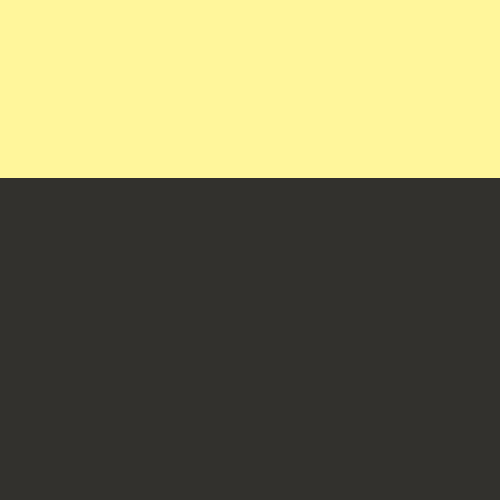
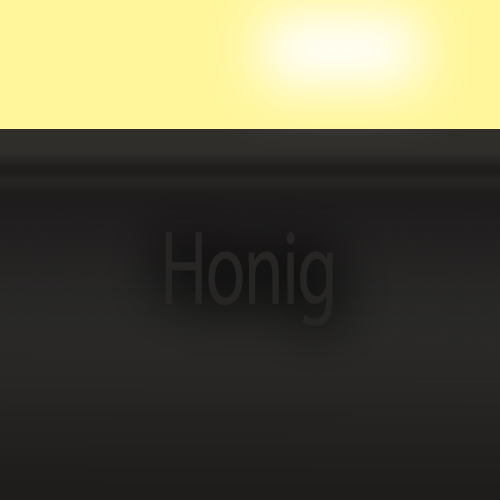
Texturen Spiel 3 ausgetauscht

Changed region(s): [[0.0, 0.24, 1.0, 0.36], [0.48, 0.0, 0.87, 0.21], [0.3, 0.45, 0.69, 0.63]]

diff --git a/Gummibande/public_html/js/e_game.js b/Gummibande/public_html/js/e_game.js
@@ -34,7 +34,7 @@ var ende_sound;
     
     var geometry1 = new THREE.SphereGeometry( 0.1 );
     var geometry2 = new THREE.SphereGeometry( topfsize );
-    var material1 = new THREE.MeshBasicMaterial( {color: 0x123456} );
+    var material1 = new THREE.MeshBasicMaterial( {color: 0x251d08} );
     var topftextur = THREE.ImageUtils.loadTexture("files/honigtopf.JPG");
     var material2 = new THREE.MeshBasicMaterial({map: topftextur});
     
@@ -187,7 +187,7 @@ var spielerwechsel = function() {
         spielerwechsel_sound.autoplay = true;
         spieler = 2;
         textplayer.innerHTML = "Spieler 2 spielt.";
-        //text3.style.opacity = 1;
+        text3.style.opacity = 1;
         //Spieler 2 beginnt...
         
     }else if(spieler === 2){

diff --git a/Gummibande/public_html/js/constants.js b/Gummibande/public_html/js/constants.js
@@ -62,7 +62,7 @@ var abstand2 = new THREE.Line3(ball2position, globposition);//((ball2.position.x
 var spieler = 1;                                //Spieler 1 beginnt (darf nicht geändert werden)
 var topfGesammelt = false;                      //variable die überprüft, ob der Honigtopf eingesammelt wurde (darf nicht geändert werden)
 // Variablen für den Baum
-var hoehe = 10;                                 //Höhe des Baums
+var hoehe = 50;                                 //Höhe des Baums
 var dm = 1;                                     //Durchmesser des Baums
 var laenge = 5;                                 //Länge der Äste
 var aeste = new Array();                        //speichert Koordinaten der Äste
